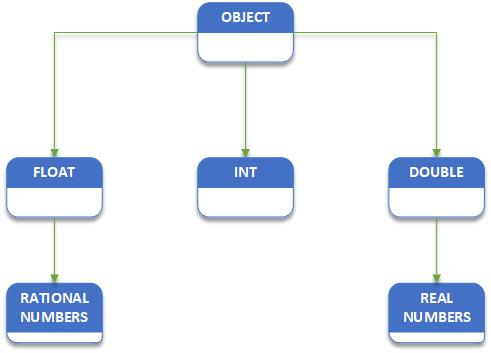
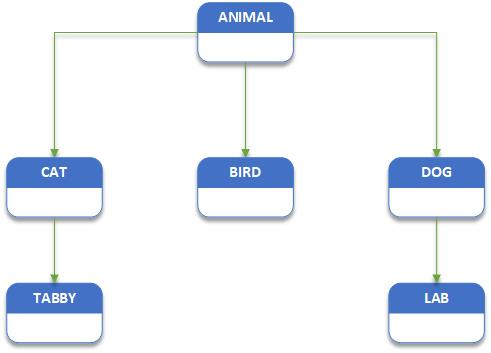
Add post polymorphism v1.0.1

diff --git a/posts/polymorphism.md b/posts/polymorphism.md
@@ -60,4 +60,196 @@ void GetAnimalName(Animal animal)
 }
 ```
 
-> Notice that `GetAnimalName`'s signature excepted an type of `Animal`. But since `Cat` is also a type of `Animal` polymorphism allows us to substitute `Animal` with `Cat`. 
+> Notice that `GetAnimalName`'s signature excepted an type of `Animal`. But since `Cat` is also a type of `Animal` polymorphism allows us to substitute `Animal` with `Cat`. This would also work if we used the `Dog` class instead of the `Cat` class. But polymorphism also works with functions and methods too. 
+
+#### Polymorphic Functions in Python 
+```python
+print(len("Hello, World!"))   # Output: 13 (length of the string)
+print(len([1, 2, 3, 4]))      # Output: 4 (length of the list)
+print(len({'a': 1, 'b': 2}))  # Output: 2 (number of keys in the dictionary)
+```
+
+> We can say `len` is polymorphic because it can accept parameters of different types. For `len` the function behaves the same no matter the type passed as a parameter. However, we can also create a polymorphic function that behaves differently dependent on what parameters are passed to the function. 
+
+```python
+def add(x, y):
+    return x + y
+
+print(add(2, 3))                    # Output: 5 (integer addition)
+print(add("Hello, ", "World!"))     # Output: "Hello, World!" (string concatenation)
+print(add([1, 2], [3, 4]))          # Output: [1, 2, 3, 4] (list concatenation)
+```
+
+> Polymorphism also works when considering class methods.
+
+```csharp
+public interface IAnimal
+{
+    public void SaySound(Animal animal);
+}
+
+
+public class Animal : IAnimal
+{
+    public string? Name { get; set; }
+    public string? Color { get; set; }
+
+    protected Animal(string name, string color)
+    {
+        Name = name;
+        Color = color;
+    }
+
+    public void SaySound(Animal animal)
+    {
+        Console.WriteLine("Animal sound");
+    }
+
+    public virtual void Sleep()
+    {
+        Console.WriteLine("Sleeping");
+    }
+}
+
+public class Cat : Animal
+{
+    public string Sound { get; set; }
+
+    public Cat(string name, string color, string sound) : base(name, color)
+    {
+        Sound = sound;
+    }
+    
+    public new void SaySound(Animal animal)
+    {
+        Console.WriteLine("Cat sound");
+    }
+    
+    public override void Sleep()
+    {
+        Console.WriteLine("Cat is sleeping");
+    }
+}
+
+public class Dog : Animal
+{
+    public string Sound { get; set; }
+
+    public Dog(string name, string color, string sound) : base(name, color)
+    {
+        Sound = sound;
+    }
+    
+    public new void SaySound(Animal animal)
+    {
+        Console.WriteLine("Dog sound");
+    }
+    
+    public override void Sleep()
+    {
+        Console.WriteLine("Dog is sleeping");
+    }
+}
+```
+
+> If notice we have added to methods to `Animal`. 
+> - SaySound
+> - Sleep
+>
+> The method `SaySound` comes from the Interface `IAnimal`. Now because Animal implements the IAnimal interface, it has to provide its only local implementation of SaySound. Note quickly, that Animal also has a virtual method `Sleep`. We will come back to that in a moment. As for `Cat` and `Dog` if they do not provide thier own local implementation of SaySound, the implementation from Animal will be used. To prevent the default behavor when calling SaySound from an instance of `Cat` and `Dog` we have two choices, well three but we will get there. First choice is to just code a method of the same name and it will work, at least it did on my machine.
+
+```csharp
+public class Cat : Animal
+{
+    public string Sound { get; set; }
+
+    public Cat(string name, string color, string sound) : base(name, color)
+    {
+        Sound = sound;
+    }
+    
+    public void SaySound(Animal animal)
+    {
+        Console.WriteLine("Cat sound");
+    }
+}
+```
+
+#### Then in the Program.cs
+```csharp
+var cat = new Cat("Jack", "Black", "Meow");
+var dog = new Dog("TRex", "White", "Ruff");
+GetAnimalName(cat); // "Jack"
+GetAnimalName(dog); // Trex
+cat.SaySound(cat); // "Cat sound"
+dog.SaySound(dog); // "Animal sound"
+```
+
+> The Compiler will give you warning about implementing `SaySound` this way. The Sharper way of doing this is to use the `new` keyword. 
+
+```csharp
+public class Cat : Animal
+{
+    public string Sound { get; set; }
+
+    public Cat(string name, string color, string sound) : base(name, color)
+    {
+        Sound = sound;
+    }
+    
+    public new void SaySound(Animal animal)
+    {
+        Console.WriteLine("Cat sound");
+    }
+}
+```
+
+> What C# calls this is method hidding. This is `NOT` the same thing as overriding and hidding does not use Polymorphism. Method hidding depends on the reference type, not the object type. 
+
+> Lets take a quick second to expel any confusion on the difference between `Overriding` and the term `Overloading`. 
+> - Overloading: Is when in one class you have multiple methods with the same name only differing by signature. Overloading happens at Compile-Time. 
+> - Overriding: Is when you have a virtual method in a base class say Animal. And then in a derived class say Cat you have a method with the same name as found in the base class, say `Sleep`. Then you would have to use the override keyword to implement a local version of Sleep in Cat. 
+
+```csharp
+public class Animal : IAnimal
+{
+    public string? Name { get; set; }
+    public string? Color { get; set; }
+
+    protected Animal(string name, string color)
+    {
+        Name = name;
+        Color = color;
+    }
+
+    public void SaySound(Animal animal)
+    {
+        Console.WriteLine("Animal sound");
+    }
+
+    public virtual void Sleep()
+    {
+        Console.WriteLine("Sleeping");
+    }
+}
+
+public class Cat : Animal
+{
+    public string Sound { get; set; }
+
+    public Cat(string name, string color, string sound) : base(name, color)
+    {
+        Sound = sound;
+    }
+    
+    public override void Sleep()
+    {
+        Console.WriteLine("Cat is sleeping");
+    }
+}
+```
+> Note that `Sleep` is virtual_[0]. Now when Sleep is called from an instance of Cat, the compiler will know to call the Sleep method on Cat and not Animal. This rather lengthy explanation are all forms of Polymorphism. Polymorphism is a powerful tool in OOP languages. It enhances maintainability, robustness and mitigates fragility when used correctly. 
+
+
+> ### References
+> virtual_[0]: The `virtual` keyword means that a method, property etc can be overriden in a derived class. 
